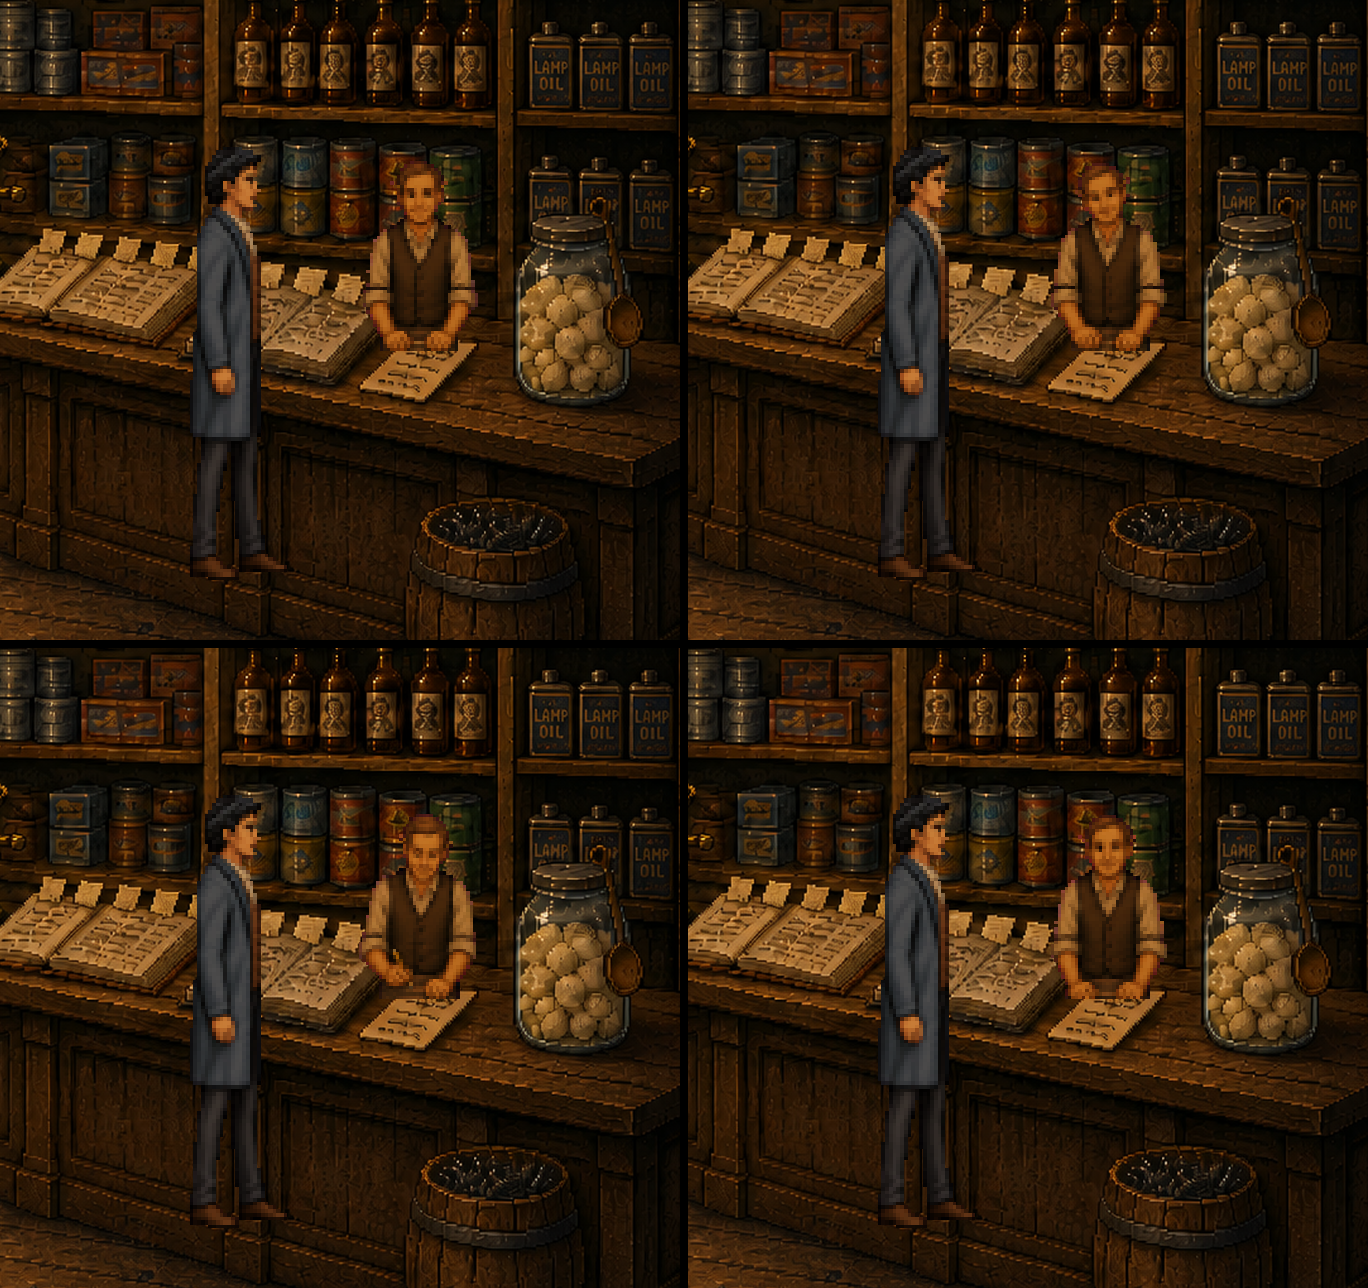
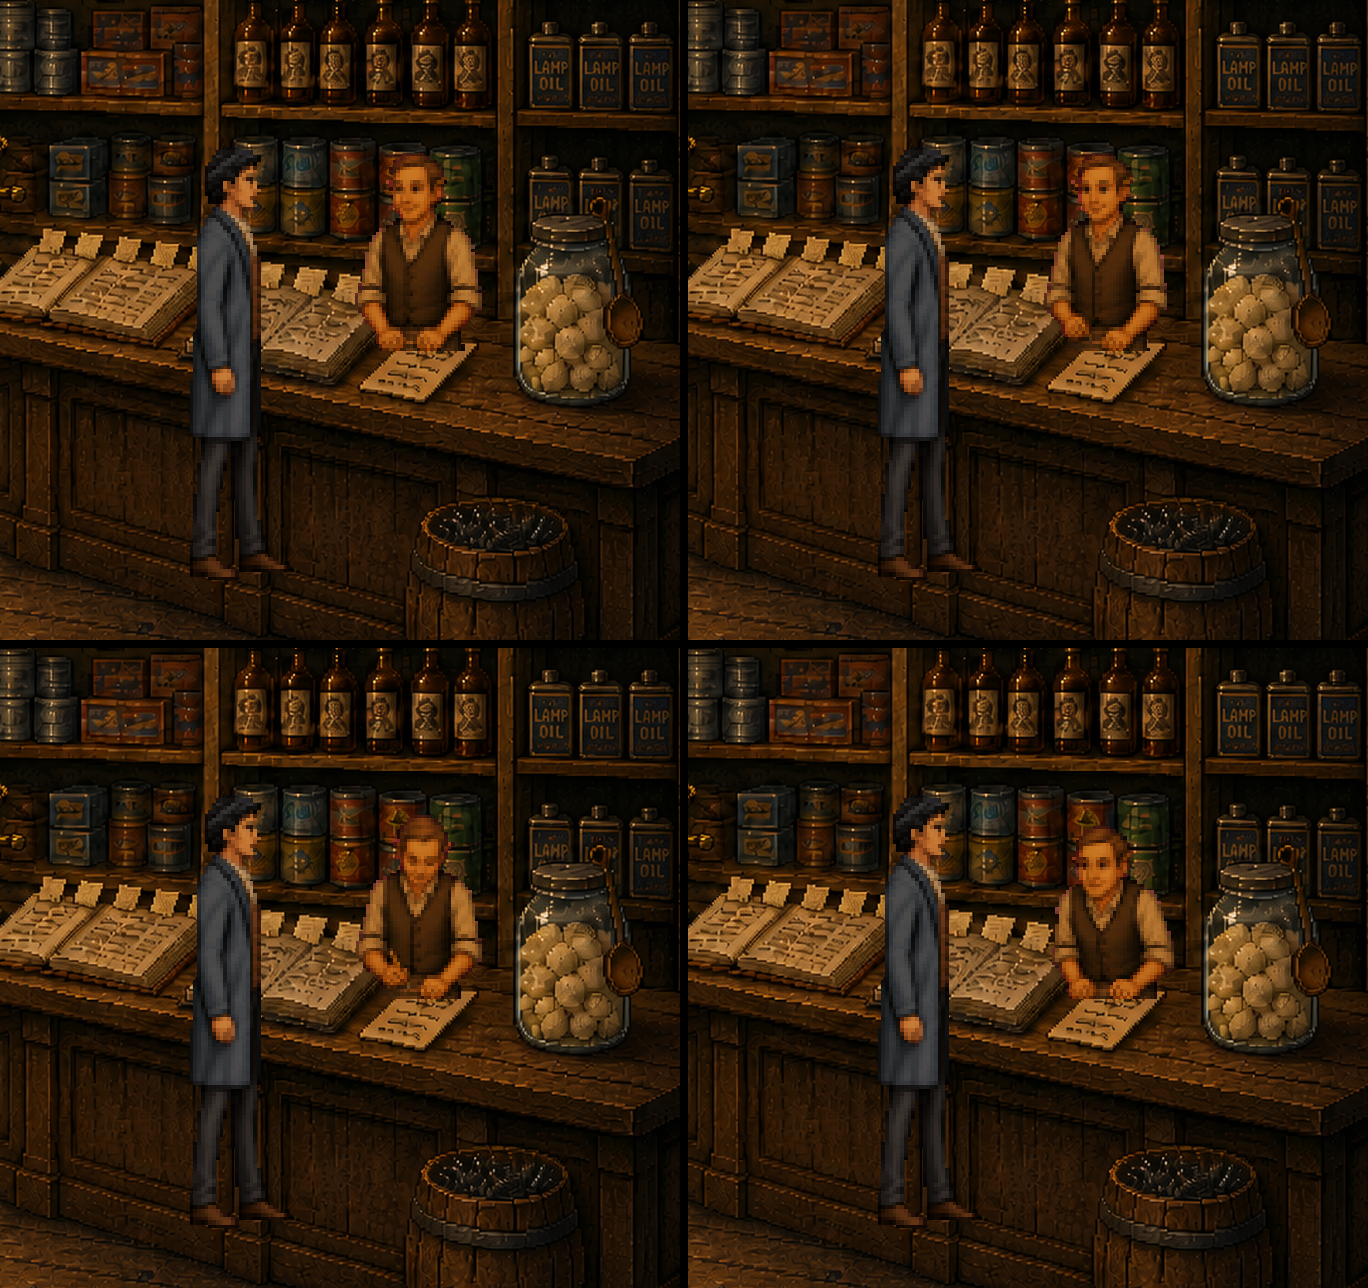
The storekeeper turned square to the counter (errata 335)
Tyler: "The storekeeper isn't facing forward at the same diagonal as the counter."
On his choice, mercantile-keeper 2 -> 3 and spendTokensTotal 4,450,000 -> 4,475,000;
operation 3 redrew the same man turned three-quarters toward the viewer's left, square
to the counter, from a guide with the counter's edges drawn on. The cut now finds his
hands as a contiguous run (the apron's flecks had cut it 60 rows low). Sheet 140x198
at (1660, 510); an anchor of x 1685 clears the ledger and the jar.

Lesson: none -- new art redrawn on Tyler's look; it is not wired, and no code defect is fixed.

Claude-Session: https://claude.ai/code/session_01FXbCupzwLJAEr7fqqWYP8A

diff --git a/tools/art/mercantile-keeper-cut.py b/tools/art/mercantile-keeper-cut.py
@@ -1,7 +1,9 @@
 """The Mercantile's storekeeper, cut (reference/mercantile-keeper/brief.md; errata 335). No image operation.
 
 mercantile-keeper drew, on magenta, four full-length frames of the storekeeper (operation 1 with Thad, the ruler, at
-the left): rest (hands on the counter), rest B (tapping), writing, the lean. NOTHING IS REGRADED (the brief: never fix
+the left): rest (hands on the counter), rest B (tapping), writing, the lean. Operation 2 corrected him (clean-shaven,
+empty hands); operation 3 turned him three-quarters toward the viewer's left, square to the counter, which runs at an
+angle (Tyler, 2026-11-15: "The storekeeper isn't facing forward at the same diagonal as the counter"). Operation 3 ships. NOTHING IS REGRADED (the brief: never fix
 the numbers in the cut): the tool scales, keys, places and snaps to the one level; every colour is the operation's.
 
   - one scale for all four: his rest frame, crown to sole, is 390 px (the brief: a standing man about one
@@ -36,8 +38,9 @@ srcm = open(ms['__file__']).read(); exec(srcm[:srcm.index('def head(')], ms)
 
 # Per operation: the sheet and how many figures stand left of his four (operation 1 kept Thad, the ruler).
 OPS = {1: {'sheet': 'art/staging/mercantile-keeper/op-1/sheet.png', 'before': 1},
-       2: {'sheet': 'art/staging/mercantile-keeper/op-2/sheet.png', 'before': None}}   # None: found by count
-OP = int(sys.argv[sys.argv.index('--op') + 1]) if '--op' in sys.argv else 2
+       2: {'sheet': 'art/staging/mercantile-keeper/op-2/sheet.png', 'before': None},   # None: found by count
+       3: {'sheet': 'art/staging/mercantile-keeper/op-3/sheet.png', 'before': None}}   # turned to the counter (ships)
+OP = int(sys.argv[sys.argv.index('--op') + 1]) if '--op' in sys.argv else 3
 SHEET = OPS[OP]['sheet']
 OUT = 'art/actors/room-12-storekeeper.png'
 MAN = 390.0                 # the brief: about 390 px crown to hidden feet
@@ -58,13 +61,18 @@ def columns(op):
 
 
 def hands_foot(a, op, x0, x1):
-    """The lowest row of his hands (skin: red well over blue) in the lower-middle of the figure."""
+    """The foot of his hands (skin: red well over blue) resting at the middle of the figure: from the row where the
+    most skin is, down to the last row of that contiguous run. The apron has a few skin-coloured flecks below it, so
+    the run, not the lowest skin pixel, decides."""
     rows = np.nonzero(op[:, x0:x1].any(1))[0]; top, bot = rows[0], rows[-1]
     sub = a[:, x0:x1]
     skin = ((sub[..., 0] - sub[..., 2]) > 110) & (sub[..., 0] > 150) & op[:, x0:x1]
     lo, hi = top + int(.35 * (bot - top)), top + int(.6 * (bot - top))
-    ys = np.nonzero(skin[lo:hi].sum(1) >= 3)[0]
-    return lo + ys[-1]
+    count = skin[lo:hi].sum(1)
+    y = int(np.argmax(count))
+    while y + 1 < len(count) and count[y + 1] >= 4:
+        y += 1
+    return lo + y
 
 
 def main(write):

diff --git a/reference/mercantile-keeper/handback.md b/reference/mercantile-keeper/handback.md
@@ -4,91 +4,96 @@
 
 On Tyler's instruction (2026-11-15), `art/staging/caps.json` has a new entry, `mercantile-keeper`, cap 2, quoting it.
 
-**Both operations are spent** (ledger: mercantile-keeper attempts 1 and 2), so the asset has none left:
-1. the drawing;
-2. the correction, shown the side-by-side.
+Tyler then saw the first hand-back: **"The storekeeper isn't facing forward at the same diagonal as the counter."** Asked what he authorizes, he chose "1 op, cap 4,475,000". So:
+- `mercantile-keeper` is raised 2 → 3;
+- `spendTokensTotal` is raised 4,450,000 → 4,475,000.
 
-The ledger is 437 attempts and 4,432,714 billed tokens against `spendTokensTotal` 4,450,000. About 17,000 is left, under the guard's 20,000 floor, so the next operation is refused until the cap is raised.
+Both quote him.
+
+**All three operations are spent** (ledger: mercantile-keeper attempts 1-3), so the asset has none left:
+1. the drawing;
+2. the correction, shown the side-by-side;
+3. the redraw turned to the counter.
+
+The ledger is 438 attempts and 4,443,967 billed tokens against 4,475,000. About 31,000 is left.
 
 Nothing in `content/` or `docs/` is touched, and nothing is wired.
 
 ## What to look at
 
-- **`renders/room-12-storekeeper-with-thad.png`**: all four frames in the Mercantile at game size, behind the counter between the credit ledger and the pickle jar. Thad is at the counter at (1480, 740), facing right. The panels are room x 1240-1920, y 160-800, one per frame.
+- **`renders/room-12-storekeeper-with-thad.png`**: all four frames in the Mercantile at game size. He is behind the counter between the credit ledger and the pickle jar, with Thad at the counter at (1480, 740), facing right. The panels are room x 1240-1920, y 160-800, one per frame.
 - **`art/actors/room-12-storekeeper.png`**: the sheet.
 
 ## How it was made
 
 ### Operation 1, the drawing
 
-Prompt: `reference/mercantile-keeper/op-1.txt`. Attached, as the brief says:
+Prompt: `op-1.txt`. Attached, as the brief says:
 1. Thad's standing frame on magenta, as the ruler;
 2. `renders/room-12-mercantile-with-thad.png`, the light and the scale;
-3. the barman's rest frame at 2x, named as the style to match.
+3. the barman's rest frame at 2x, named as the style.
 
-It drew a narrow, pleasant storekeeper in a cream shirt, dark waistcoat and brown apron, with a pencil behind each ear. It missed the brief in four ways:
-- **a moustache**, where the brief says clean-shaven;
-- **a small grey stick between his hands** in frames 1 and 2;
-- **a third pencil**: in frame 3 he writes with a pencil while both ear pencils stay;
-- **brighter and higher in contrast than Thad**: mean light 91.7 against Thad's 60.2, and contrast 48.4 against Thad's 33.1.
+It drew a narrow, pleasant storekeeper in a cream shirt, dark waistcoat and brown apron, with a pencil behind each ear. It missed in four ways:
+- a moustache, where the brief says clean-shaven;
+- a small grey stick between his hands;
+- a third pencil when he writes;
+- brighter and higher in contrast than Thad.
 
 ### Operation 2, the correction
 
-Prompt: `reference/mercantile-keeper/op-2.txt`. Attached:
-1. operation 1's sheet, as the drawing to keep;
-2. **the side-by-side**: him in the store behind the counter beside Thad at 3x, labelled with what to change (`art/staging/mercantile-keeper/op-2/side-by-side.png`);
-3. the barman at 2x.
+Prompt: `op-2.txt`. It was shown him beside Thad in the store at 3x (`art/staging/mercantile-keeper/op-2/side-by-side.png`).
 
-What it fixed:
-- **clean-shaven** in every frame;
-- **his hands empty** on the counter in frames 1, 2 and 4;
-- a little darker overall.
+It made him clean-shaven and emptied his hands. But he still faced straight out.
 
-What it did not fix:
-- frame 3's third pencil (below);
-- his contrast, which is still high (below).
+### Operation 3, turned to the counter
 
-It also took away most of frame 4's lean. **Operation 2 is what ships.**
+Prompt: `op-3.txt`. It was given:
+- operation 2's sheet, as the man to keep;
+- **a guide**: him in the store, with the counter's front and back edges drawn in red and the way to face in blue (`art/staging/mercantile-keeper/op-3/the-counter-angle.png`). The counter's front edge drops about 120 px over 850, from (1060, 490) to (1910, 610). Its right end is nearer, so its front faces the lower left;
+- the barman at 2x, as the three-quarter turn.
+
+It redrew the same man **turned about 30° toward the viewer's left, square to the counter**: his shoulders follow its edge and he looks toward the customer's side. Frame 4's lean came back, with his shoulders lower and nearer. **Operation 3 is what ships.**
 
 ### The cut: `tools/art/mercantile-keeper-cut.py --write`
 
-The tool re-runs from staging. `--op 1` measures the first drawing and does not write.
+The tool re-runs from staging. `--op 1` and `--op 2` measure the earlier drawings and do not write.
 
 **Nothing is regraded.** It scales, keys, places and snaps to the one level; every colour is the operation's own.
-- **Scale:** his rest frame, crown to sole, is the brief's **390 px**. One factor (0.5685) is used for all four frames.
-- **Where the band stops:** all four frames are cut at the foot of his hands resting on the counter in the rest frame. That row is put on the counter top's back edge, y 510.
+- **Scale:** his rest frame, crown to sole, is the brief's **390 px**. One factor (0.5821) is used for all four frames.
+- **Where the band stops:** all four frames are cut at the foot of his hands resting on the counter in the rest frame (sheet row 529). That row is put on the counter top's back edge, y 510.
+- **Finding the hands:** the tool takes the contiguous run of hand rows, not the lowest skin-coloured pixel. The apron has a few such flecks, and the first cut stopped 60 rows too low.
 - **Snap:** the tool snaps to the one level itself, at block 3.391 (390 / 115, errata 112).
-- **`one-level.py --only room-12-storekeeper`** finds no sheet yet. It reads a sheet's man from its record, and the storekeeper has none until he is wired. Run it again then. Use `--dry` or `--only`: without them it re-snaps every sheet in the game.
+- **`one-level.py --only room-12-storekeeper`** finds no sheet until he has a record. Run it after the wiring. Use `--dry` or `--only`: without them it re-snaps every sheet in the game.
 
 ## The sheet
 
-Four frames, cell **126 x 190**, his hands' resting row on each cell's bottom row:
+Four frames, cell **140 x 198**, his hands' resting row on each cell's bottom row:
 
 | Frame | Rect | Pose |
 |---|---|---|
-| 0 | `[2, 2, 126, 190]` | rest: both hands resting on the counter, looking out, pleasant |
-| 1 | `[130, 2, 126, 190]` | rest B: head tilted |
-| 2 | `[258, 2, 126, 190]` | writing: head down, a pencil in his right hand, writing on the counter (in the room, on the order form) |
-| 3 | `[386, 2, 126, 190]` | the action: smiling at the customer, leaning a little on both hands |
+| 0 | `[2, 2, 140, 198]` | rest: both hands resting on the counter, looking toward the customer, pleasant |
+| 1 | `[144, 2, 140, 198]` | rest B: head tilted, right hand tapping |
+| 2 | `[286, 2, 140, 198]` | writing: head down, writing on the counter (in the room, on the order form) |
+| 3 | `[428, 2, 140, 198]` | the action: leaning forward over both hands, smiling at the customer |
 
-- **Anchor:** room **(1660, 510)**, as the brief says; in the cell, **(63, 189)**, bottom-centre. Posture `band`.
-- **Movement:** frames 1-3 each change 25-39% of the figure by more than the movement test's threshold, well past its 10% for an action.
+- **Anchor:** room **(1660, 510)**, as the brief says; in the cell, **(70, 197)**, bottom-centre. Posture `band`.
+- **Movement:** frames 1, 2 and 3 change 18%, 38% and 54% of the figure by more than 40 levels, so frame 3 clears the test's 10% easily.
 
 ## Height against the curve
 
 - **The curve:** the room's man is 419 px at the counter's foot (y 720) and 432.8 where Thad stands at it (y 740).
-- **The storekeeper:** drawn at **390 px** crown to hidden feet, as the brief asks. His feet would fall at about y 711.
-- **His crown is at y 321** (321-327 across the four frames). That is 14 px below Thad's crown at the counter (y 307), as the brief wants.
-- **The tonic stays visible:** his crown is well below the tonic shelf at y 265, so DR. PURVIS'S TONIC is uncovered.
+- **The storekeeper:** drawn at **390 px** crown to hidden feet, as the brief asks. His feet would fall at about y 703.
+- **His crown:** at rest it is at **y 313**, 6 px below Thad's crown at the counter (y 307), as the brief wants. Writing it is at 327, and leaning at 338.
+- **The tonic stays visible:** all four frames are well below the tonic shelf at y 265, so DR. PURVIS'S TONIC is uncovered.
 
 ## What he covers -- for the wiring
 
-- **THE PICKLE JAR** (from x 1755): not overlapped in any frame. His right edge is at x 1715-1718.
-- **THE CREDIT LEDGER** (to x 1620): **overlapped by 17-21 px at the brief's anchor.** His left edge is at x 1599-1603, where the ledger's rect runs to 1620. At game size it is his left arm against the ledger rect's right edge.
-  - He is 116-120 px wide, and the gap between the ledger and the jar is 135 px.
-  - **An anchor of x 1681 clears both.** He would span 1620-1739.
+- **THE PICKLE JAR** (from x 1755): not overlapped in any frame. His right edge is at x 1718-1725.
+- **THE CREDIT LEDGER** (to x 1620): **overlapped at the brief's anchor.** His left edge is at x 1595-1604.
+  - He is 131 px wide across his four frames, turned, and the gap between the ledger and the jar is 135 px.
+  - **An anchor of x 1685 clears both.** He would span 1620-1750, 5 px short of the jar.
   - The brief names 1660, so the sheet and the render use 1660; the choice is the wiring's.
-- **THE CATALOGUE -- ORDER FORM** (1600-1720, y 495-555): his hands rest on its top edge, y 495-510. In frame 2 he writes on it, which reads well. The brief does not ask for it to stay clear.
+- **THE CATALOGUE -- ORDER FORM** (1600-1720, y 495-555): his hands rest on its top edge, and in frame 2 he writes on it.
 
 ## Measured beside Thad and the barman (the gate flags; it does not decide)
 
@@ -97,37 +102,34 @@ These are on the rest frame at game size, against Thad's standing frame scaled t
 | | texture | contrast (lum s.d.) | mean luminance |
 |---|---|---|---|
 | operation 1 | 5.91 | 48.4 | 91.7 |
-| **operation 2, shipped** | **5.94** | **47.7** | **83.4** |
+| operation 2 | 5.94 | 47.7 | 83.4 |
+| **operation 3, shipped** | **5.76** | **48.5** | **86.4** |
 | Thad, at this man's size | 4.42 | 33.1 | 60.2 |
 | the barman | 7.07 | 37.7 | 86.1 |
 
-- **Texture** is in the barman's range, and below him.
-- **Mean luminance** is in the barman's range. He is brighter than Thad, whose dark blue coat pulls Thad's mean down.
-- **Contrast** is above both (47.7 against 37.7 and 33.1). The correction asked for lower contrast and barely moved it.
+- **Texture and mean luminance** are in the barman's range.
+- **Contrast** is above both the barman and Thad. Two operations asked for it lower, and it has not come down.
 
-In the room he reads as the store's own man, warm under its lamp and no whiter than the cream papers around him. His face and shirt are a little crisper than Thad's. With no operation left, a miss is yours to call; a further correction would need a new operation.
+In the room he reads as the store's own man, warm under its lamp. His face and shirt are a little crisper than Thad's.
 
 ## Every frame checked for both pencils
 
 Checked by eye on the operation's heads at 4x:
 
-| Frame | Behind his right ear | Behind his left ear |
+| Frame | Behind his right ear (far, viewer's left) | Behind his left ear (near, viewer's right) |
 |---|---|---|
-| 0 | ✓ | ✓ |
+| 0 | ✓ (its end past his head) | ✓ |
 | 1 | ✓ | ✓ |
 | 2 | ✓ | ✓ |
 | 3 | ✓ | ✓ |
 
-**One miss, for your eye -- frame 2's third pencil.** The brief asks for both things in this frame:
-- a pencil behind each ear in every frame;
-- taking the pencil from behind his right ear to write.
+**One miss, for your eye -- the third pencil.** A third pencil is in his hand in frame 1 (tapping) and frame 2 (writing). All three operations were asked to write with the right-ear pencil, leaving that ear empty. Each kept both ear pencils instead and gave him another.
 
-The correction was asked to write with the right-ear pencil, leaving that ear empty for this one frame. Instead it kept both ear pencils and put a third in his hand. So the writing pencil appears in frame 2 and is gone in the others.
+Frames 0 and 3 have nothing in his hands. If the wiring plays 0 and 3 most and 1 and 2 rarely, the extra pencil comes and goes with the tapping and the writing.
 
 ## Other notes for your eye
 
-- **Hair:** it reads as full, not thinning.
-- **Frame 3's lean:** it is slight; he mostly smiles over his hands. It still clears the movement test easily.
+- His hair reads full, not thinning.
 
 ## Checks
 
